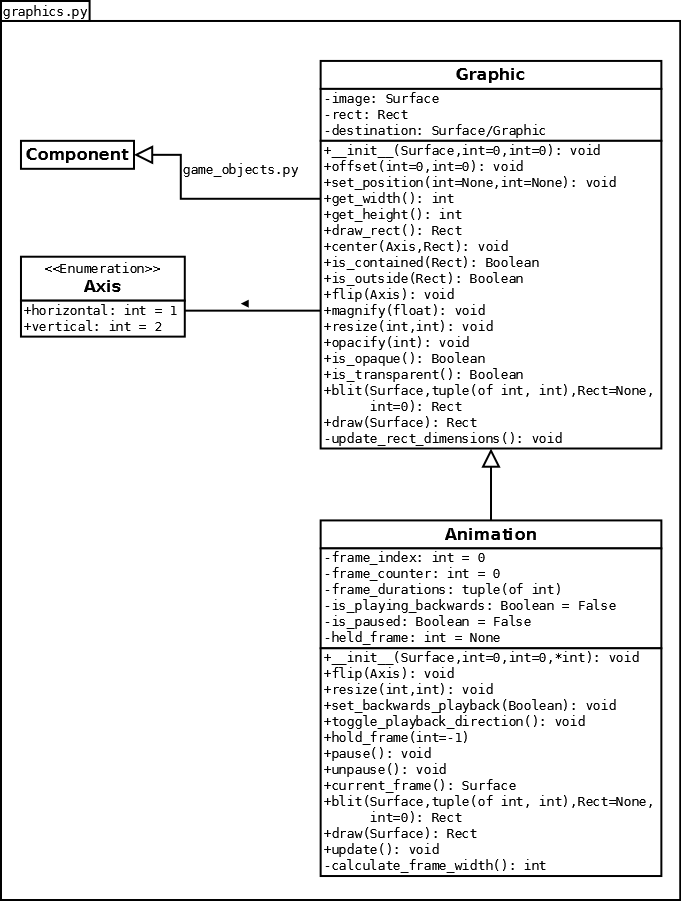
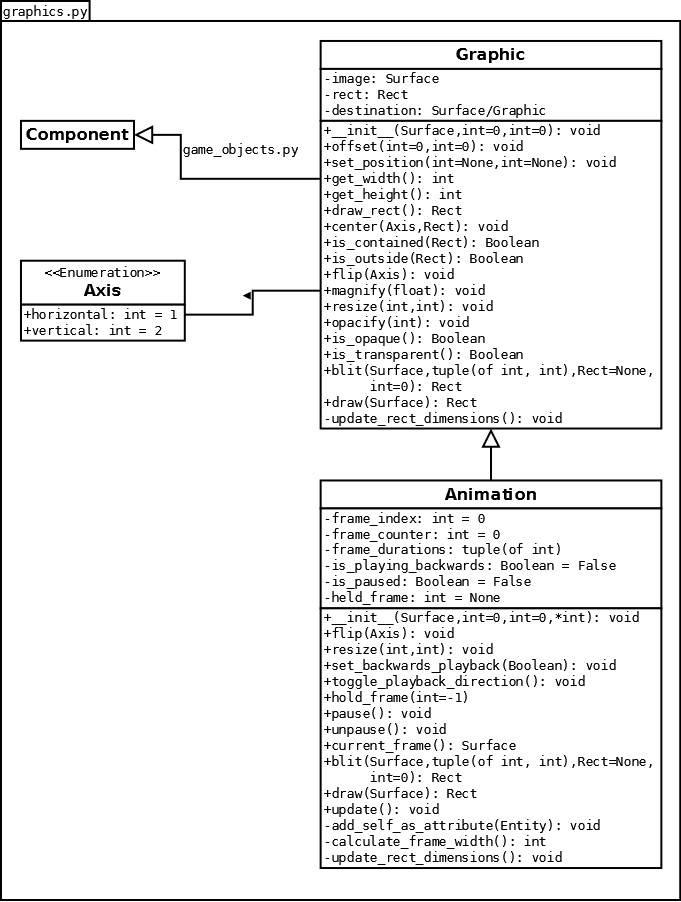
Animation: Overwrite _update_rect_dimensions()
_rect's width now refers to the width of a single frame, rather than
the width of the entire contained image (i.e. the sprite sheet).

Changed region(s): [[0.0308, 0.031, 0.9868, 0.9933], [0.8326, 0.8381, 0.9559, 0.9313], [0.8018, 0.8381, 0.8326, 0.9002]]

diff --git a/materials/graphics.py b/materials/graphics.py
@@ -414,3 +414,11 @@ class Animation(Graphic):
         #     singular frame width * number of frames
         new_width *= len(self._frame_durations)
         super(Animation, self).resize(new_width, new_height)
+
+    def _update_rect_dimensions(self):
+        """Update the width and height of _rect with the current
+        singular frame dimensions of the sprite sheet.
+        """
+        self._rect.width = (self._image.get_width() /
+                            len(self._frame_durations))
+        self._rect.height = self._image.get_height()
